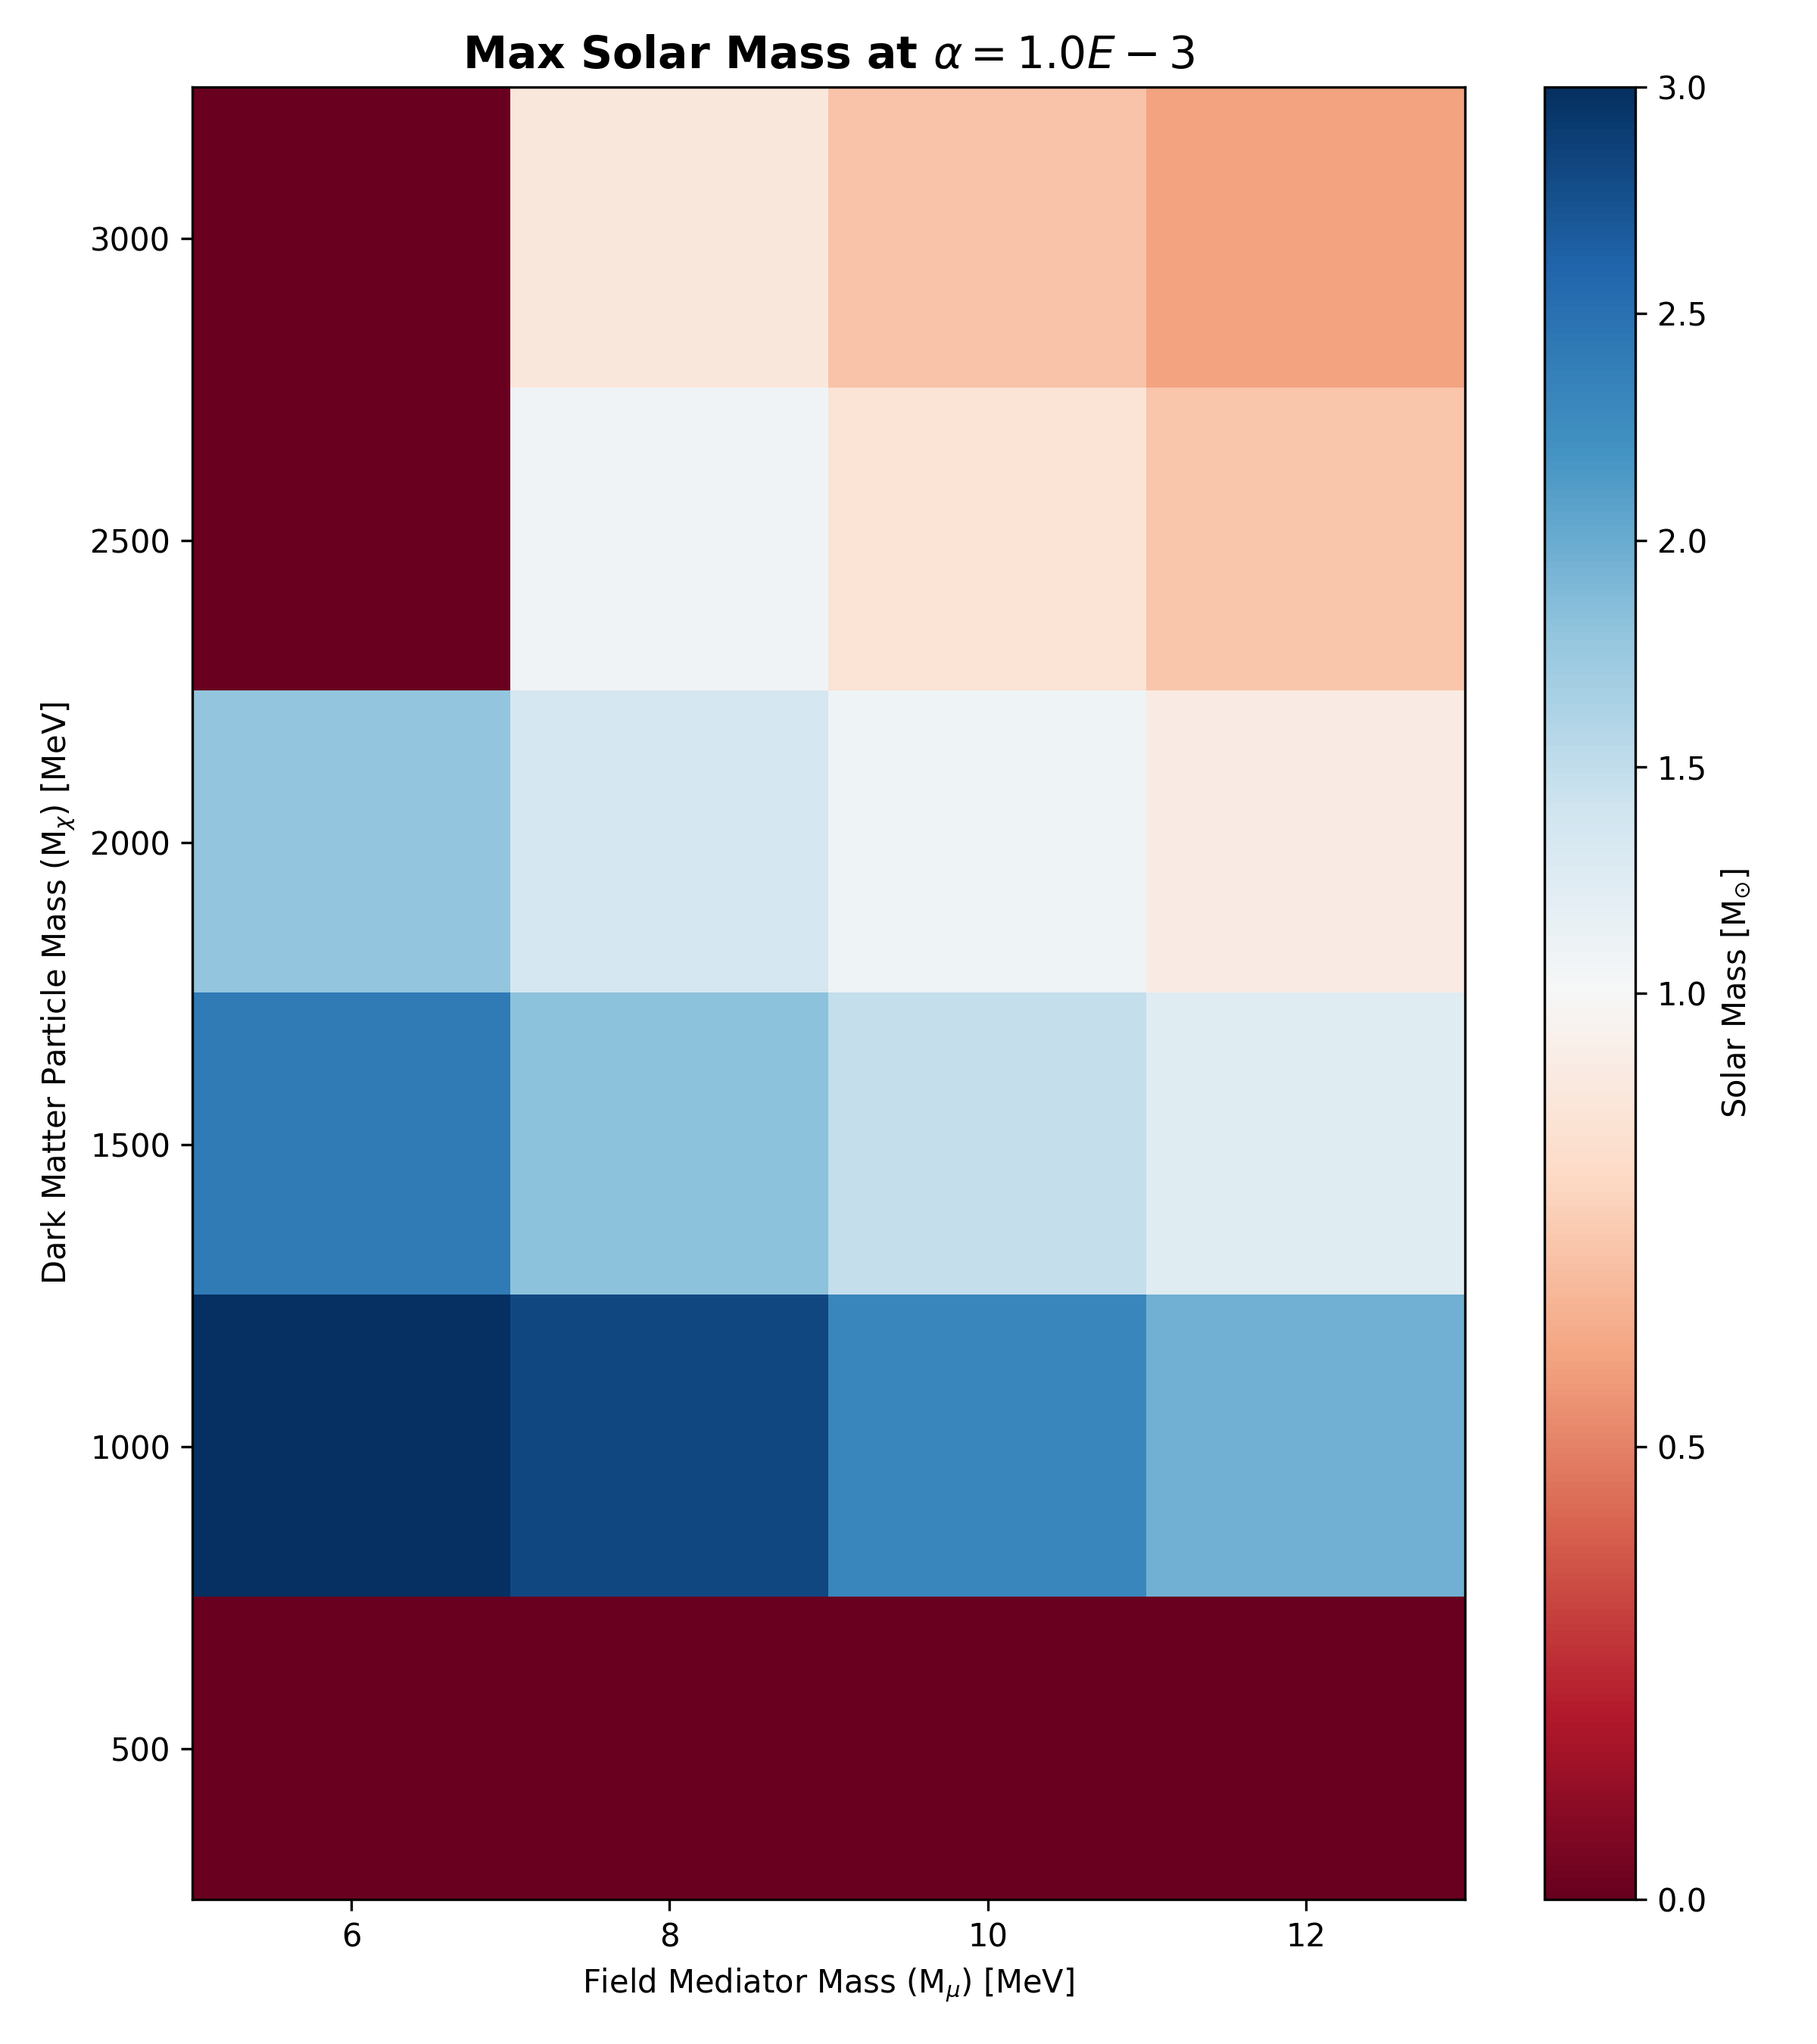
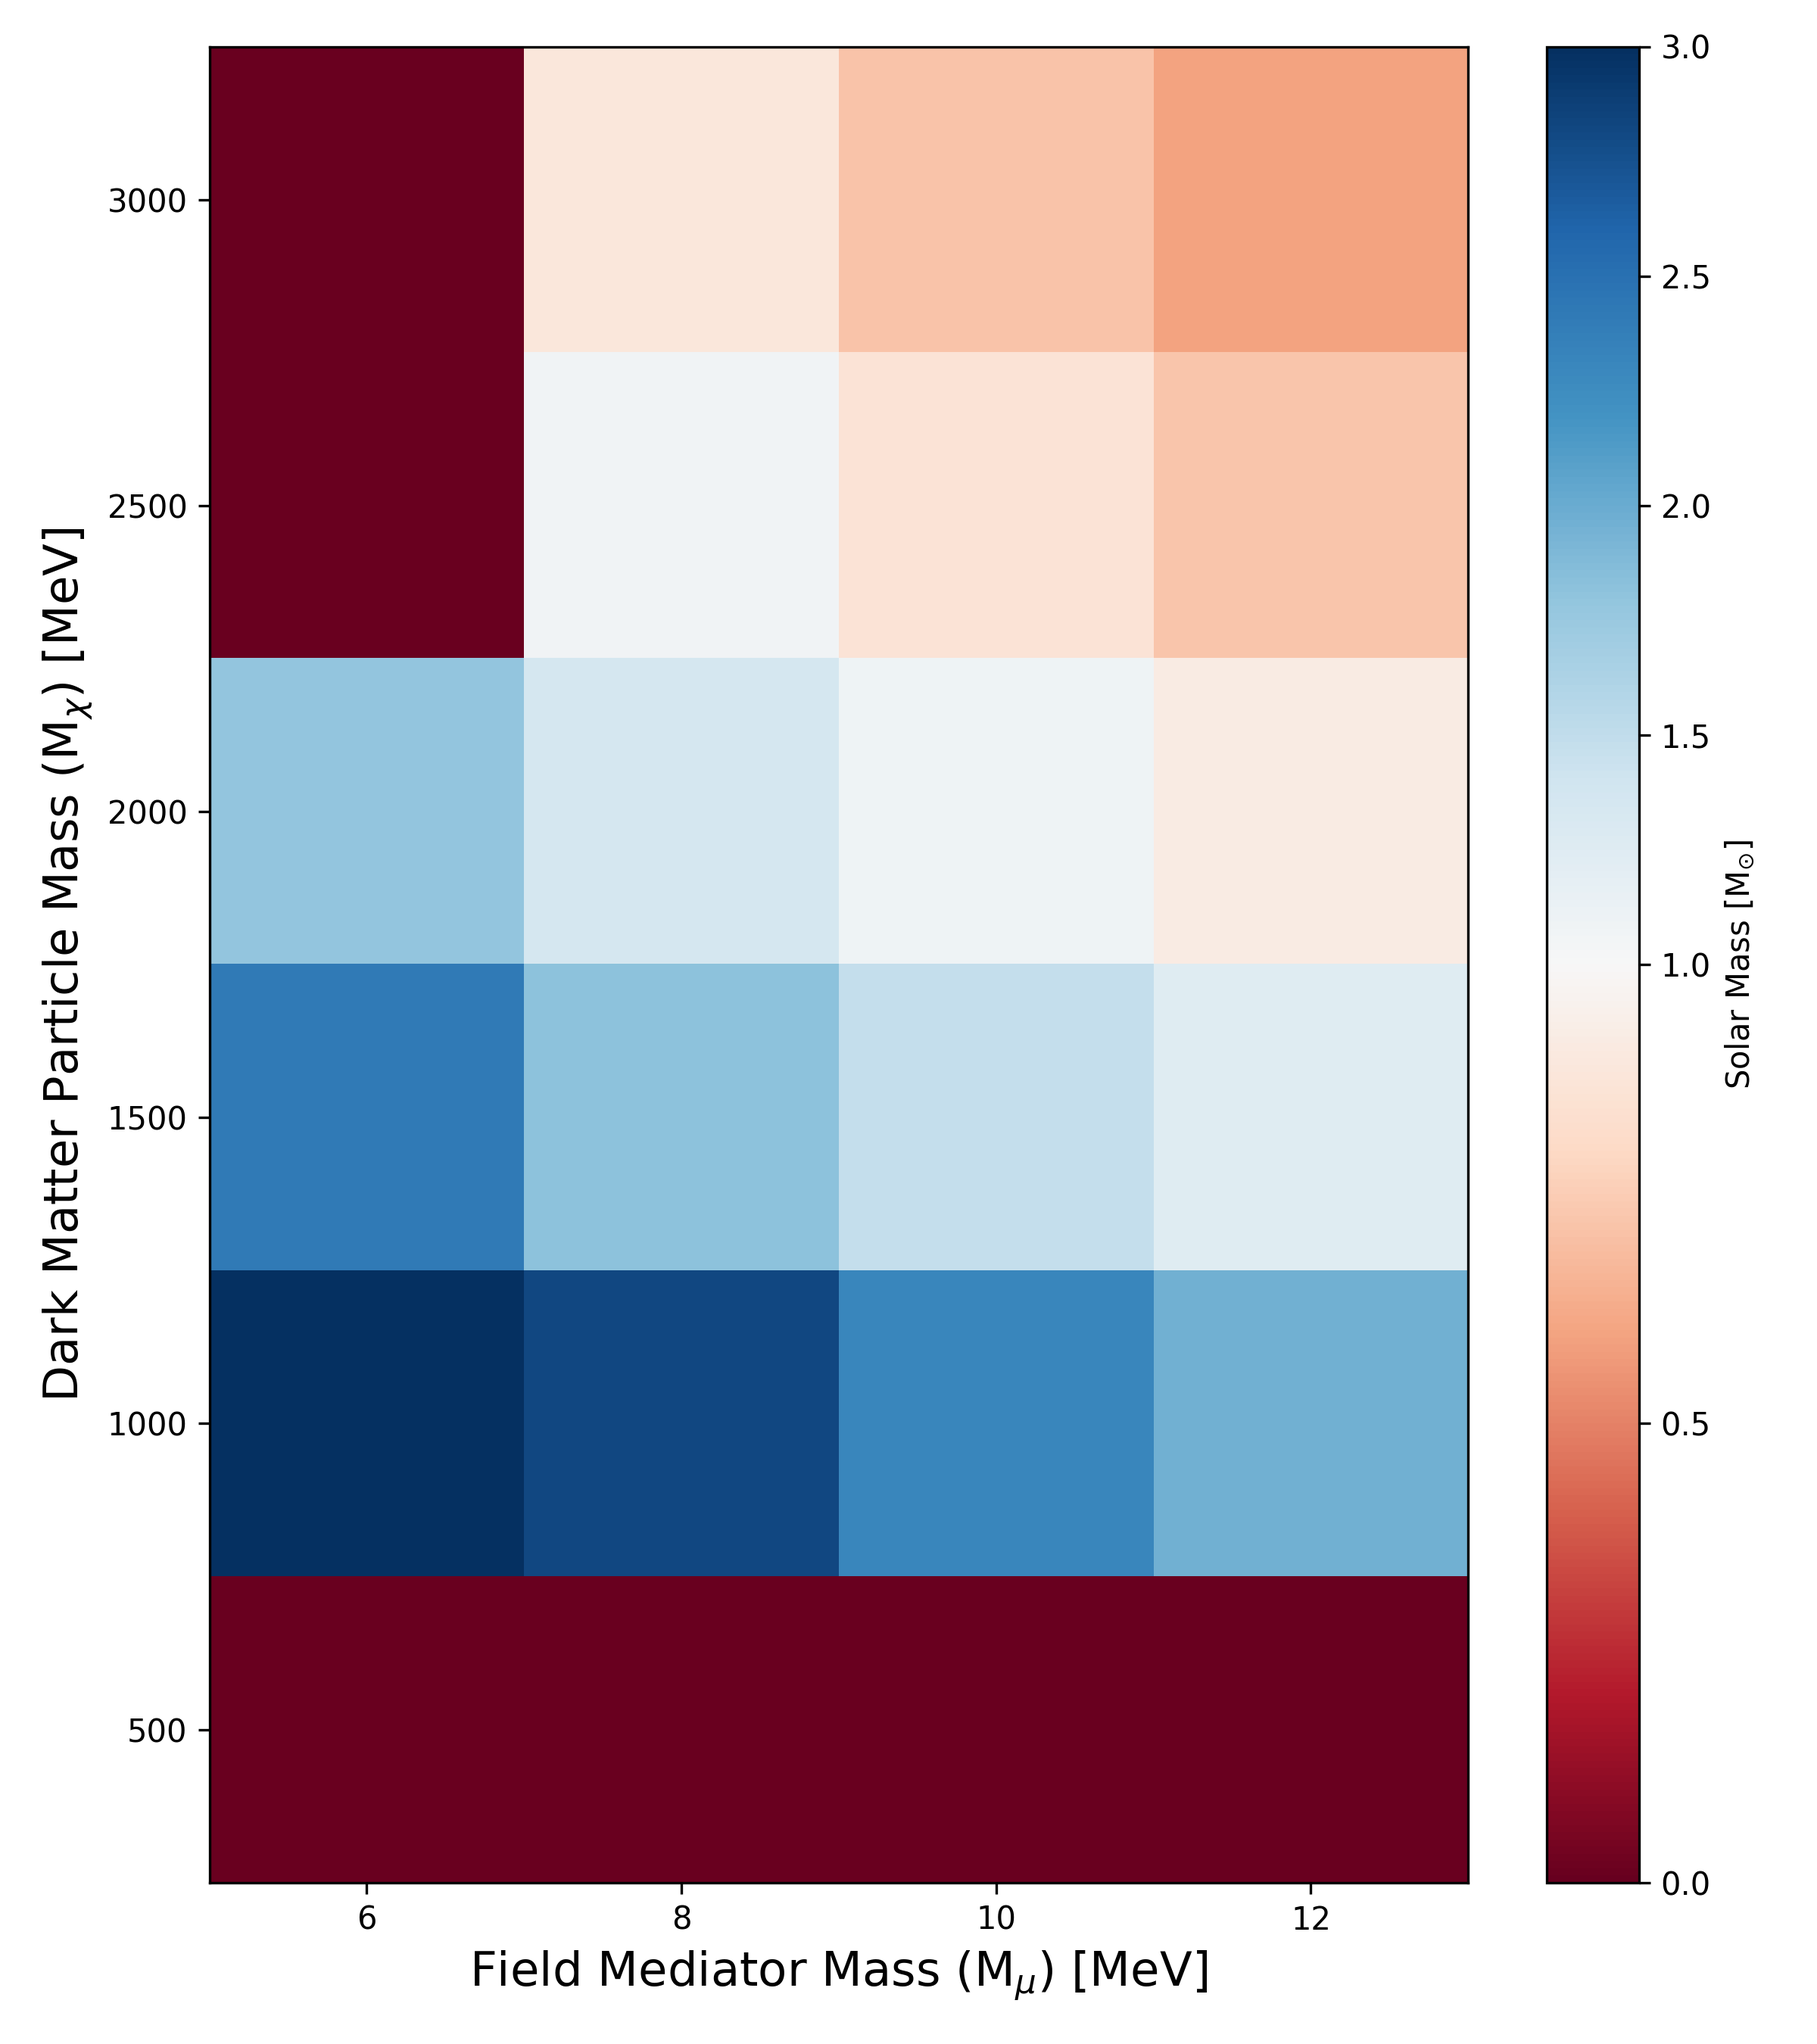
Additional curve comparisons

Changed region(s): [[0.0, 0.0, 0.8125, 0.9956], [0.8438, 0.0, 0.9688, 0.9333]]

diff --git a/Part2-Dark_Star_Comparison.py b/Part2-Dark_Star_Comparison.py
@@ -1,4 +1,5 @@
 # Script is called Part2-Dark_Star_Comparison.py
+import os
 
 import numpy as np
 import pandas as pd
@@ -81,10 +82,10 @@ def solarmass_heatmap_fromcsv(folder_name, alpha_value,
 
     # Title and Labels
     # [x_axis = mediator (μ or \mu)] [y_axis = DM particle (χ or \chi)]
-    title_name = (f"Max Solar Mass at $\\alpha = {coefficient} E{exponent}$")
-    ax.set_title(title_name, fontweight='bold', fontsize=14)
-    ax.set_xlabel(r"Field Mediator Mass (M$_{\mu}$) [MeV]")
-    ax.set_ylabel(r"Dark Matter Particle Mass (M$_{\chi}$) [MeV]")
+    title_name = f"Max Solar Mass at $\\alpha = {coefficient} E{exponent}$"
+    # ax.set_title(title_name, fontweight='bold', fontsize=14)
+    ax.set_xlabel(r"Field Mediator Mass (M$_{\mu}$) [MeV]", fontsize=15)
+    ax.set_ylabel(r"Dark Matter Particle Mass (M$_{\chi}$) [MeV]", fontsize=15)
 
     # Tick marks
     ax.set_xticks(range(len(mu_ordered_MeV)))
@@ -134,7 +135,7 @@ def solarmass_curve_comparison(folder_name, alpha_value,
             chi_color_array[i] = default_chi_color[i]
 
     # Setting up the figure to plot on [figsize=(width, height)]
-    plt.figure(figsize=(10, 10))
+    plt.figure(figsize=(6, 5))
     legend_labels = []
 
     alpha_file_segment = f"alpha_{alpha_value:0.0e}"
@@ -189,9 +190,29 @@ def solarmass_curve_comparison(folder_name, alpha_value,
                      color=curvecolor, linestyle='dashed', markevery=100,
                      marker=marker_style, markerfacecolor=marker_color,
                      markersize=10)
-            legend_labels.append(f"$\\mu$={mu_value}MeV \t$\\chi$={chi_value}MeV")
+            legend_chi_value = round((chi_value/1000), 1)
+            legend_labels.append(f"$\\chi$={legend_chi_value}GeV\t$\\mu$={mu_value}MeV")
 
+    # Titles and Axes
+    # plt.title('Dark Star Mass-Radius Profiles', fontsize=15)
+    plt.xlabel('Radius [km]', fontsize=12)
+    plt.ylabel(r'Solar Mass [M$_{\odot}$]', fontsize=12)
+    plt.ylim(bottom=-0.1, top=3)
+
+    # Legend, tight fit
     plt.legend(labels=legend_labels)
+    plt.tight_layout()
+
+    # Save result
+    save_folder = "results_final_visuals"
+    description = ((f"curve_compare chi_{m_chi_array} mu_{m_mu_array} "
+                   f"alpha_{alpha_value:0.0e}")
+                   .replace('[', '').replace(']', ''))
+    file_name = description.replace(', ', '_')
+    save_path = f"{save_folder}/{file_name}.png"
+    plt.savefig(save_path, dpi=300)
+    print(f"Saved graph to: {save_path}")
+
     plt.show()
 
 
@@ -217,4 +238,7 @@ max_solarmasses_1e_n4 = solarmass_heatmap_fromcsv(csv_folder, alpha_values[2],
 
 solarmass_curve_comparison(csv_folder, alpha_values[0], [1000, 2000],
                            [8, 10, 12])
-
+solarmass_curve_comparison(csv_folder, alpha_values[1], [1000, 2000],
+                           [8, 10, 12])
+solarmass_curve_comparison(csv_folder, alpha_values[2], [1000, 2000],
+                           [8, 10, 12])
